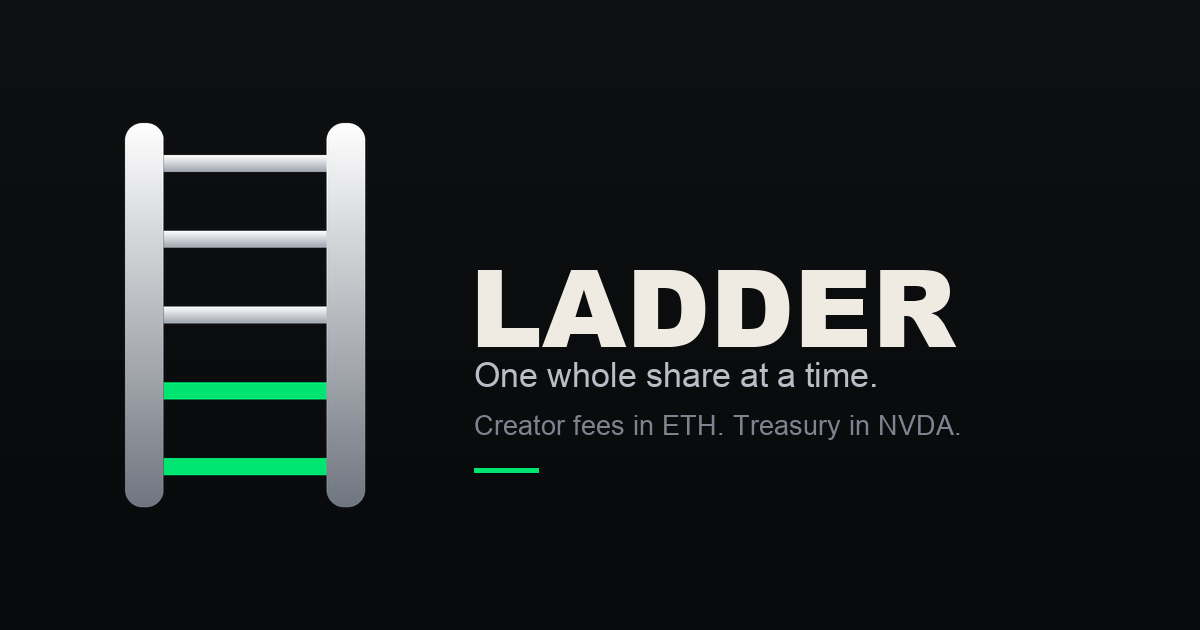
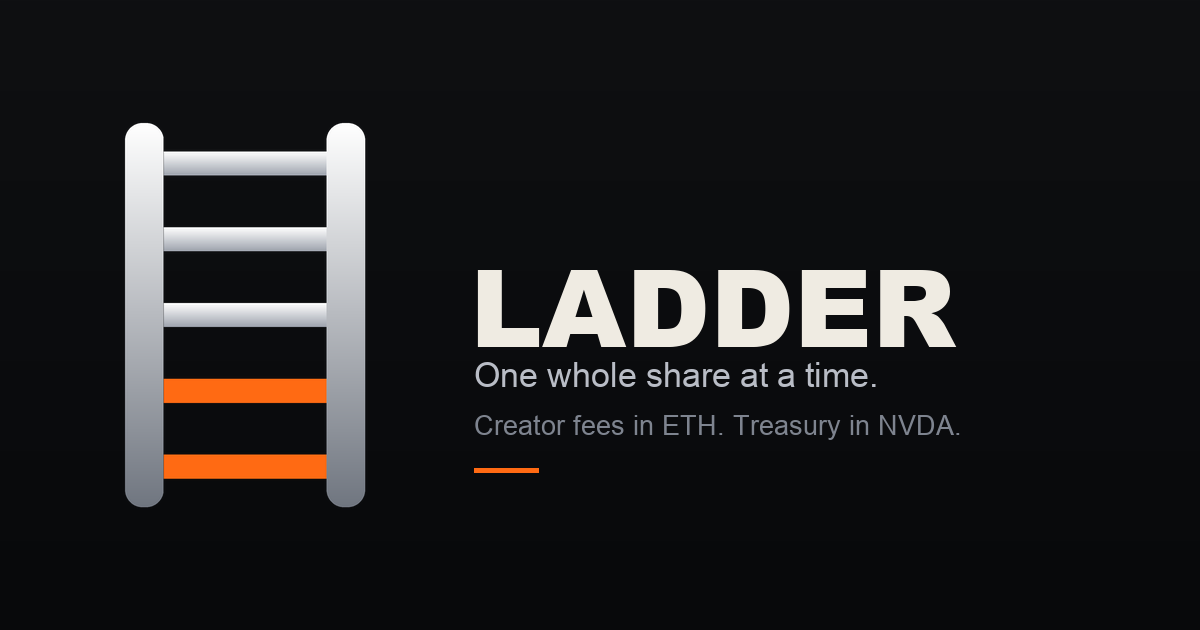
Recolour LADDER to orange and white on black
Replaces the green/amber/ember trio with a single accent at three heats
(#FF6A13, plus a mid and a pale tint). Three warm hues sitting near each
other would have muddied, and one hue carries the same meaning with less
noise.

The two states now split by colour rather than by shade: orange marks
what the treasury actually owns, white marks whatever is still in
progress. So a cleared rung, the progress bar and the live dot are
orange, while the current rung, its fill and the unrouted fee figure are
white. Previously both were warm and easy to confuse at a glance.

The three how-it-works beats step pale to mid to full orange, heating up
toward the payoff, instead of using three unrelated colours.

"What this is not" titles move to paper white. Orange there would have
competed with the accent everywhere else, and the section reads as
statements rather than warnings.

Icon generation moves out of a throwaway command into
scripts/make-icons.py so the placeholders can be regenerated rather than
reverse-engineered.

Verified on the built output: no green left in the DOM, the accent
resolves everywhere it should, and the cleared, current and locked rung
states are visually distinct.

diff --git a/ladder/app/page.tsx b/ladder/app/page.tsx
@@ -17,28 +17,28 @@ const BEATS = [
         kicker: 'The coin trades',
         title: 'FEES ARRIVE\nAS STOCK.',
         body: `${BRAND.ticker} is priced against tokenized ${TOKEN.quote.symbol} on Pons, so the creator fee on every buy and sell is collected in ${TOKEN.quote.symbol} rather than in the coin. Nothing has to be swapped later and nothing has to be sold to realise it. The fee is already the asset.`,
-        accent: 'var(--ember)',
+        accent: 'var(--accent-pale)',
       }
     : {
         n: '01',
         kicker: 'The coin trades',
         title: `FEES ARRIVE\nIN ${TOKEN.quote.symbol}.`,
         body: `${BRAND.ticker} is priced against ${TOKEN.quote.name} on Pons, so the creator fee on every buy and sell is collected in ${TOKEN.quote.symbol}. That is not what the ladder buys, so it gets swapped for stock on the way into the treasury. Fees are earned in one asset and counted in another, and only the second one shows up on this page.`,
-        accent: 'var(--ember)',
+        accent: 'var(--accent-pale)',
       },
   {
     n: '02',
     kicker: 'A person moves it',
     title: 'ROUTED\nBY HAND.',
     body: `Fees sit in the Pons escrow until they are claimed and moved to the treasury${feesAreLadderStock() ? '' : ', buying stock along the way'}. There is no contract doing that automatically, which means nothing is on a timer and nothing can be drained by a bug in code we wrote. It also means it happens when a human does it.`,
-    accent: 'var(--amber)',
+    accent: 'var(--accent-mid)',
   },
   {
     n: '03',
     kicker: 'The count goes up',
     title: 'ONE WHOLE\nSHARE.',
     body: 'A rung clears when the treasury actually holds that many shares, not when it is close. Fractions are just a balance. A whole share is a thing you either own or do not, which is the only reason the number on this page is worth reading.',
-    accent: 'var(--green)',
+    accent: 'var(--accent)',
   },
 ];
 
@@ -58,7 +58,7 @@ export default function Home() {
         <h1 className="display h-hero" style={{ margin: '0 0 30px' }}>
           <Reveal as="span" style={{ display: 'block' }}>THE TREASURY</Reveal>
           <Reveal as="span" delay={120} style={{ display: 'block' }}>
-            <span className="outline">CLIMBS</span> <span style={{ color: 'var(--green)' }}>UP.</span>
+            <span className="outline">CLIMBS</span> <span style={{ color: 'var(--accent)' }}>UP.</span>
           </Reveal>
         </h1>
 
@@ -146,7 +146,7 @@ export default function Home() {
               ['Not a security.', `${BRAND.ticker} is a memecoin. Buying it is not an investment in anything and it entitles you to nothing.`],
             ].map(([t, b], i) => (
               <div key={i} style={{ background: 'var(--panel)', padding: '20px 22px' }}>
-                <div className="display" style={{ fontSize: 19, marginBottom: 7, color: 'var(--ember)' }}>{t}</div>
+                <div className="display" style={{ fontSize: 19, marginBottom: 7, color: 'var(--paper)' }}>{t}</div>
                 <p style={{ fontSize: 14.5, lineHeight: 1.6, color: 'var(--body)', margin: 0 }}>{b}</p>
               </div>
             ))}

diff --git a/ladder/app/globals.css b/ladder/app/globals.css
@@ -11,10 +11,12 @@
   --muted:    #7E848F;
   --dim:      #565C67;
 
-  --green:    #00E572;
-  --green-dk: #00A251;
-  --amber:    #FFB020;
-  --ember:    #FF5A36;
+  /* One accent, three heats. Orange carries everything the treasury has
+     actually done; white carries whatever is still in progress. */
+  --accent:      #FF6A13;
+  --accent-dk:   #A83B00;
+  --accent-mid:  #FF8F47;
+  --accent-pale: #FFC299;
 
   --display: var(--font-display), 'Anton', 'Archivo Black', Impact, sans-serif;
   --mono: var(--font-mono), ui-monospace, SFMono-Regular, Menlo, monospace;
@@ -53,7 +55,7 @@ body::before {
 
 a { color: inherit; text-decoration: none; }
 
-::selection { background: var(--green); color: var(--ink); }
+::selection { background: var(--accent); color: var(--ink); }
 
 /* ------------------------------------------------------------------ layout */
 .shell { max-width: var(--shell); margin: 0 auto; width: 100%; }
@@ -138,8 +140,8 @@ a { color: inherit; text-decoration: none; }
 }
 .btn:active { transform: translateY(1px); }
 
-.btn-primary { background: var(--green); color: var(--ink); font-weight: 700; }
-.btn-primary:hover { background: #2BFF92; }
+.btn-primary { background: var(--accent); color: var(--ink); font-weight: 700; }
+.btn-primary:hover { background: #FF8534; }
 
 .btn-ghost { background: transparent; border-color: var(--line-hot); color: var(--paper); }
 .btn-ghost:hover { border-color: var(--paper); background: rgba(255, 255, 255, 0.04); }
@@ -242,19 +244,19 @@ a { color: inherit; text-decoration: none; }
   color: var(--dim);
 }
 
-.rung.is-cleared { background: linear-gradient(90deg, rgba(0, 229, 114, 0.09), transparent 62%); border-color: rgba(0, 229, 114, 0.24); }
-.rung.is-cleared .sym { color: var(--green); }
-.rung.is-cleared .state { color: var(--green); }
+.rung.is-cleared { background: linear-gradient(90deg, rgba(255, 106, 19, 0.10), transparent 62%); border-color: rgba(255, 106, 19, 0.26); }
+.rung.is-cleared .sym { color: var(--accent); }
+.rung.is-cleared .state { color: var(--accent); }
 
 .rung.is-current { background: var(--panel-2); border-color: var(--line-hot); }
-.rung.is-current .state { color: var(--amber); }
+.rung.is-current .state { color: var(--paper); }
 
 /* The fill sits behind the current rung's content. */
 .rung .fill {
   position: absolute;
   inset: 0;
-  background: linear-gradient(90deg, rgba(255, 176, 32, 0.16), rgba(255, 176, 32, 0.05));
-  border-right: 1px solid rgba(255, 176, 32, 0.5);
+  background: linear-gradient(90deg, rgba(255, 255, 255, 0.10), rgba(255, 255, 255, 0.03));
+  border-right: 1px solid rgba(255, 255, 255, 0.42);
   transform-origin: left;
   transition: width 0.9s cubic-bezier(0.16, 1, 0.3, 1);
   pointer-events: none;
@@ -272,7 +274,7 @@ a { color: inherit; text-decoration: none; }
 }
 .bar-fill {
   height: 100%;
-  background: linear-gradient(90deg, var(--green-dk), var(--green));
+  background: linear-gradient(90deg, var(--accent-dk), var(--accent));
   border-radius: 999px;
   transition: width 1.1s cubic-bezier(0.16, 1, 0.3, 1);
   position: relative;

diff --git a/ladder/components/Ladder.tsx b/ladder/components/Ladder.tsx
@@ -47,8 +47,8 @@ export function LadderStatus() {
     return (
       <div className="panel raised" style={{ padding: '30px 30px 28px' }}>
         <div className="row" style={{ gap: 10, marginBottom: 16 }}>
-          <span className="dot" style={{ background: 'var(--amber)' }} />
-          <span className="label" style={{ color: 'var(--amber)' }}>Not launched yet</span>
+          <span className="dot" style={{ background: 'var(--accent-pale)' }} />
+          <span className="label" style={{ color: 'var(--accent-pale)' }}>Not launched yet</span>
         </div>
         <div className="display h-2" style={{ marginBottom: 12 }}>The ladder starts at zero.</div>
         <p style={{ fontSize: 15, lineHeight: 1.65, color: 'var(--body)', margin: 0 }}>
@@ -65,7 +65,7 @@ export function LadderStatus() {
     <div className="panel raised" style={{ padding: '26px 28px 24px' }}>
       <div className="spread" style={{ marginBottom: 20, gap: 14, flexWrap: 'wrap' }}>
         <div className="row" style={{ gap: 9 }}>
-          <span className="dot pulse-dot" style={{ background: 'var(--green)', color: 'var(--green)' }} />
+          <span className="dot pulse-dot" style={{ background: 'var(--accent)', color: 'var(--accent)' }} />
           <span className="label">Live from Robinhood Chain</span>
         </div>
         <span className="label">{t.clearedCount} of {t.rungs.length} rungs cleared</span>
@@ -92,12 +92,12 @@ export function LadderStatus() {
               holding{' '}
               <span style={{ color: 'var(--paper)' }}>{shares(t.held[cur.stock.symbol] ?? 0)}</span> {cur.stock.symbol}
             </span>
-            <span style={{ color: 'var(--green)' }}>{(pct * 100).toFixed(1)}%</span>
+            <span style={{ color: 'var(--accent)' }}>{(pct * 100).toFixed(1)}%</span>
           </div>
         </>
       ) : (
         <>
-          <div className="display h-2" style={{ marginBottom: 10, color: 'var(--green)' }}>Ladder cleared.</div>
+          <div className="display h-2" style={{ marginBottom: 10, color: 'var(--accent)' }}>Ladder cleared.</div>
           <p style={{ fontSize: 15, lineHeight: 1.6, color: 'var(--body)', margin: 0 }}>
             Every rung is done. New ones get added and the treasury keeps climbing.
           </p>
@@ -109,7 +109,7 @@ export function LadderStatus() {
           <hr className="rule" style={{ margin: '20px 0 16px' }} />
           <div className="spread" style={{ gap: 12, flexWrap: 'wrap' }}>
             <span className="label">Creator fees waiting on Pons</span>
-            <span className="mono" style={{ fontSize: 14, color: 'var(--amber)' }}>
+            <span className="mono" style={{ fontSize: 14, color: 'var(--paper)' }}>
               {shares(t.pendingFees)} {t.pendingSymbol}
             </span>
           </div>

diff --git a/ladder/app/treasury/page.tsx b/ladder/app/treasury/page.tsx
@@ -80,7 +80,7 @@ export default function Treasury() {
                   href={explorerAddr(r.addr)}
                   target="_blank"
                   rel="noreferrer"
-                  style={{ fontSize: 11.5, color: 'var(--green)', wordBreak: 'break-all' }}
+                  style={{ fontSize: 11.5, color: 'var(--accent)', wordBreak: 'break-all' }}
                 >
                   {r.addr} ↗
                 </a>

diff --git a/ladder/components/Header.tsx b/ladder/components/Header.tsx
@@ -6,7 +6,7 @@ export function Header() {
     <header className="hdr">
       <div className="shell hdr-in">
         <Link href="/" className="mark">
-          <span className="dot" style={{ background: 'var(--green)' }} />
+          <span className="dot" style={{ background: 'var(--accent)' }} />
           <span className="glyph">{BRAND.name}</span>
         </Link>
         <nav>

diff --git a/ladder/components/Backdrop.tsx b/ladder/components/Backdrop.tsx
@@ -75,7 +75,7 @@ export function Backdrop() {
         const lit = (i % 7 === 0);
         ctx.lineWidth = lit ? 1.6 : 1;
         ctx.strokeStyle = lit
-          ? `rgba(0,229,114,${0.22 * a})`
+          ? `rgba(255,106,19,${0.26 * a})`
           : `rgba(255,255,255,${0.045 * a})`;
         ctx.beginPath();
         ctx.moveTo(cx - halfW, y);

diff --git a/ladder/scripts/make-icons.py b/ladder/scripts/make-icons.py
@@ -1,0 +1,108 @@
+#!/usr/bin/env python3
+"""
+Regenerates the placeholder favicon, apple icon and Open Graph card.
+
+Placeholders until the real mark lands. Run from the ladder/ directory:
+
+    python3 scripts/make-icons.py
+
+The favicon tile deliberately carries fewer rungs than the OG mark: five rungs
+blur into a solid block at 32px, which is the size that actually matters for a
+browser tab.
+"""
+from PIL import Image, ImageDraw, ImageFont
+
+INK    = (8, 9, 11)
+ACCENT = (255, 106, 19)
+PAPER  = (239, 235, 226)
+SS     = 4  # supersample; PIL does not antialias, so draw big and downsample
+
+
+def _bar(canvas, box, radius, top, bot):
+    """A rounded bar filled with a vertical ramp, as an RGBA layer."""
+    layer = Image.new('RGBA', canvas, (0, 0, 0, 0))
+    grad = Image.new('RGB', canvas, INK)
+    g = ImageDraw.Draw(grad)
+    x0, y0, x1, y1 = box
+    span = max(1, int(y1 - y0))
+    for i in range(span):
+        t = i / span
+        g.rectangle([x0, y0 + i, x1, y0 + i + 1],
+                    fill=tuple(int(top[k] + (bot[k] - top[k]) * t) for k in range(3)))
+    mask = Image.new('L', canvas, 0)
+    ImageDraw.Draw(mask).rounded_rectangle(box, radius=radius, fill=255)
+    layer.paste(grad, (0, 0), mask)
+    return layer
+
+
+def glyph(w, h, n=4, cleared=1, pad=0.12, rail=0.16, rung=0.62):
+    """Ladder on transparency. Rungs stop short of the rail ends so the rails
+       read as continuing past them, the way a real ladder does."""
+    W, H = int(w * SS), int(h * SS)
+    canvas = (W, H)
+    img = Image.new('RGBA', canvas, (0, 0, 0, 0))
+
+    px, py = W * pad, H * pad
+    rail_w = (W - px * 2) * rail
+    left, right = px, W - px - rail_w
+    top, bottom = py, H - py
+
+    rung_h = rail_w * rung
+    end_gap = rung_h * 1.2
+    y0, y1 = top + end_gap, bottom - end_gap - rung_h
+    step = (y1 - y0) / (n - 1)
+    inset = rail_w * 0.46
+
+    for i in range(n):
+        y = y0 + step * i
+        box = [left + inset, y, right + rail_w - inset, y + rung_h]
+        r = rung_h * 0.42
+        if i >= n - cleared:                      # rungs already climbed
+            l = Image.new('RGBA', canvas, (0, 0, 0, 0))
+            ImageDraw.Draw(l).rounded_rectangle(box, radius=r, fill=ACCENT + (255,))
+            img.alpha_composite(l)
+        else:
+            img.alpha_composite(_bar(canvas, box, r, (255, 255, 255), (158, 164, 174)))
+
+    for x in (left, right):
+        img.alpha_composite(_bar(canvas, [x, top, x + rail_w, bottom], rail_w * 0.45,
+                                 (255, 255, 255), (112, 118, 128)))
+    return img.resize((int(w), int(h)), Image.LANCZOS)
+
+
+def on_ink(g):
+    bg = Image.new('RGB', g.size, INK)
+    bg.paste(g, (0, 0), g)
+    return bg
+
+
+def main():
+    on_ink(glyph(512, 512)).save('app/icon.png')
+    on_ink(glyph(180, 180, pad=0.10)).save('app/apple-icon.png')
+
+    W, H = 1200, 630
+    og = Image.new('RGB', (W, H), INK)
+    d = ImageDraw.Draw(og)
+    for y in range(H):                            # slight top-down lift
+        v = int(7 * (1 - y / H))
+        d.rectangle([0, y, W, y + 1], fill=(INK[0] + v, INK[1] + v, INK[2] + v))
+
+    mark = glyph(250, 400, n=5, cleared=2, pad=0.02)
+    og.paste(mark, (120, H // 2 - 200), mark)
+
+    heavy = '/System/Library/Fonts/Supplemental/Arial Black.ttf'
+    plain = '/System/Library/Fonts/Supplemental/Arial.ttf'
+    d.text((470, 228), 'LADDER', font=ImageFont.truetype(heavy, 108), fill=PAPER)
+    d.text((474, 356), 'One whole share at a time.',
+           font=ImageFont.truetype(plain, 34), fill=(185, 189, 198))
+    d.text((474, 410), 'Creator fees in ETH. Treasury in NVDA.',
+           font=ImageFont.truetype(plain, 27), fill=(126, 132, 143))
+    d.rectangle([474, 468, 538, 472], fill=ACCENT)
+    og.save('app/opengraph-image.png')
+
+    for f in ('app/icon.png', 'app/apple-icon.png', 'app/opengraph-image.png'):
+        print(f'  wrote {f}  {Image.open(f).size}')
+
+
+if __name__ == '__main__':
+    main()
